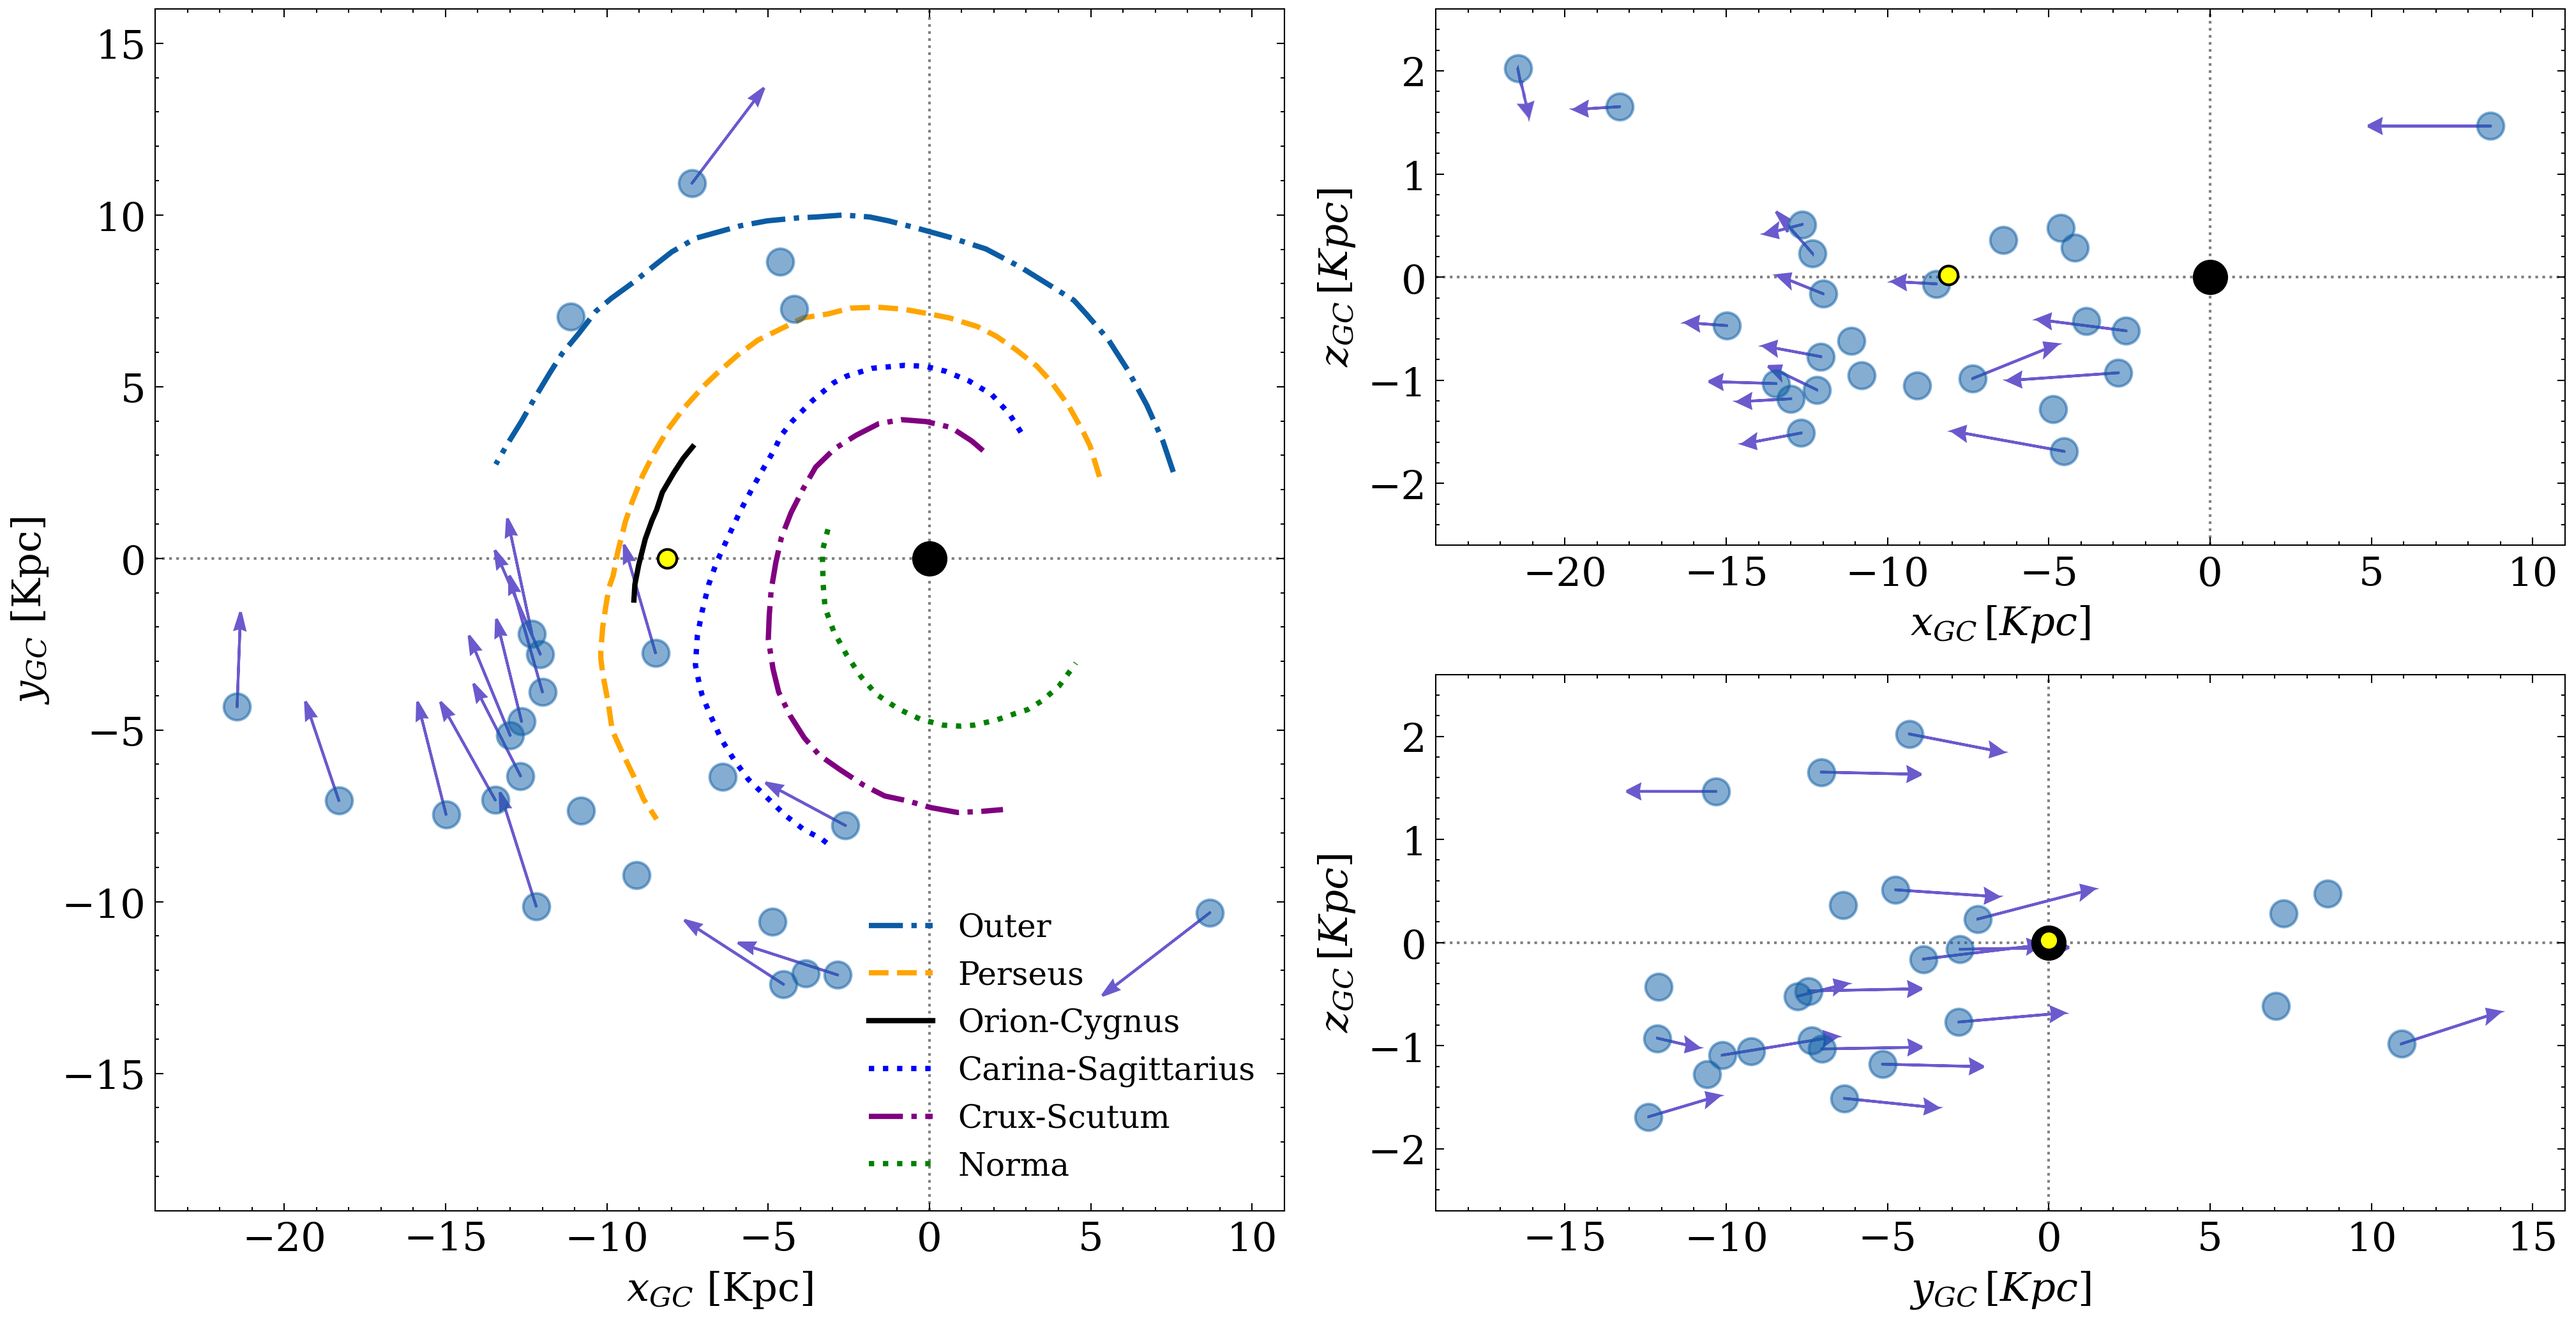
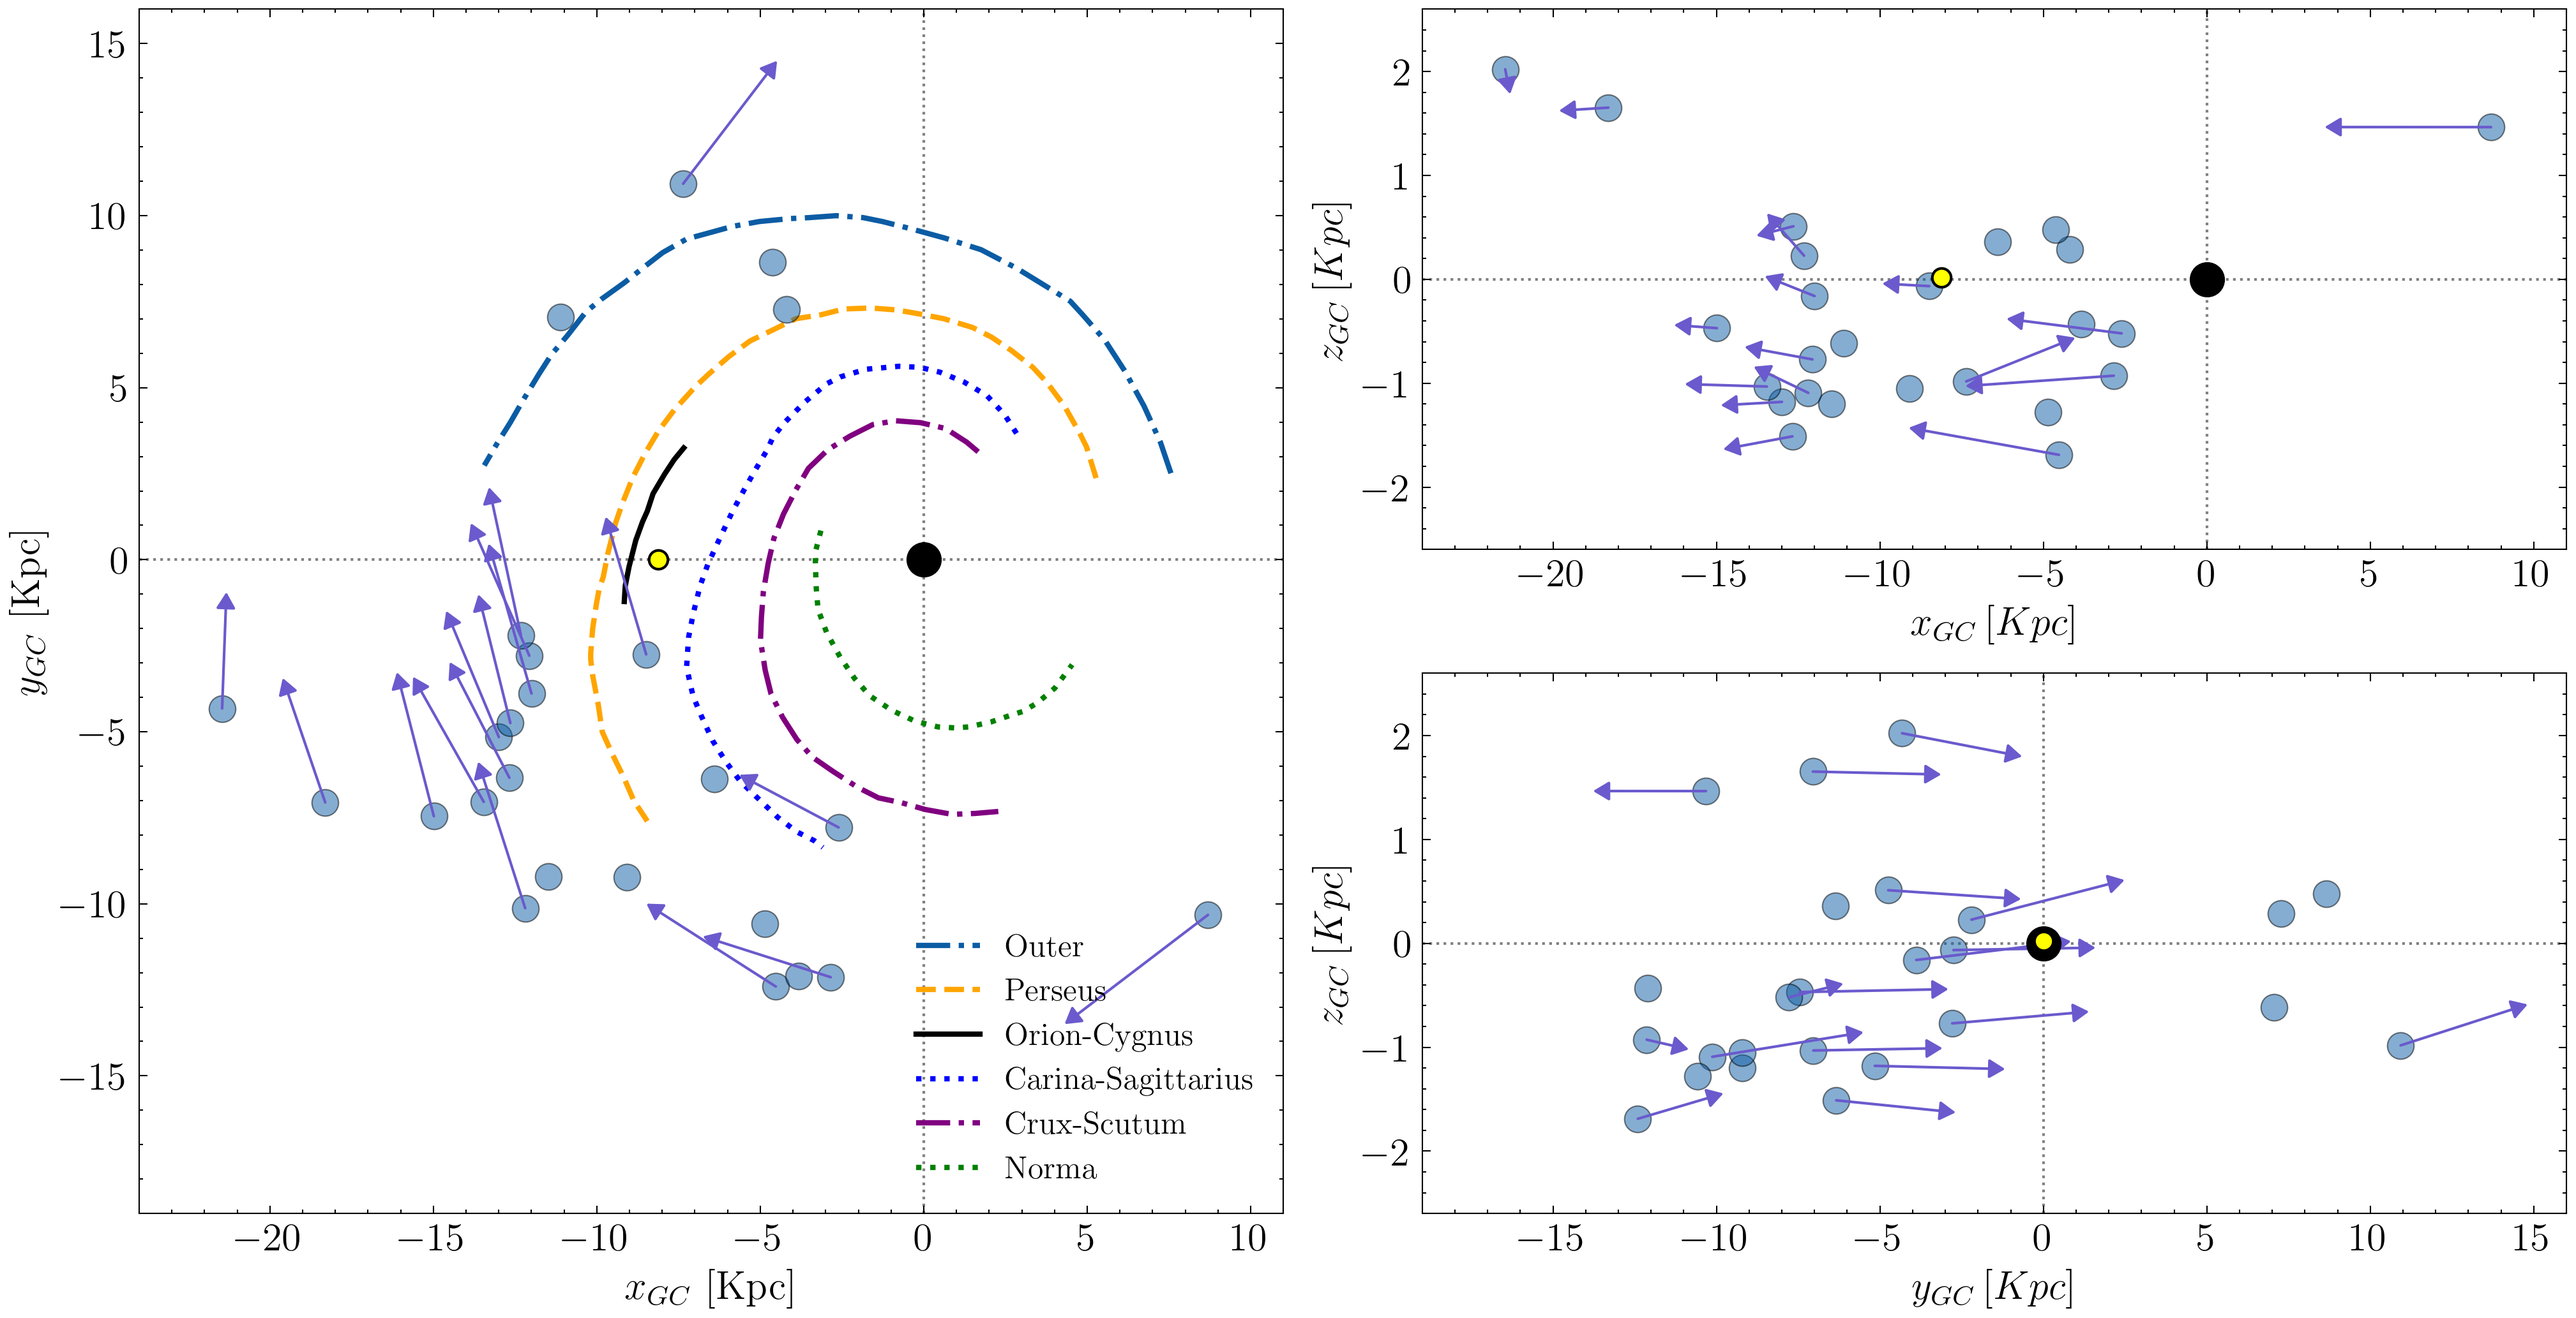
code to plot veloc vectors on spiral galaxy + updt plot

diff --git a/1_code/plot_XYmap_vector.py b/1_code/plot_XYmap_vector.py
@@ -1,0 +1,217 @@
+from astropy import units as u
+from astropy.coordinates import SkyCoord
+import astropy.coordinates as coord
+from astropy.io import ascii
+import matplotlib.pyplot as plt
+import matplotlib.gridspec as gridspec
+import numpy as np
+from plot_pars import dpi, grid_x, grid_y
+from plot_XYmap import plotSpiral
+
+
+lit_data = """
+Cluster      RA  DEC       Dm  A_OC  D_OC  A_CG D_CG  A_WB  D_WB  A_MW  D_MW   RV      pmRA   pmDE      pmRA_CG   pmDE_CG
+Ber73        95.50  -6.35  2   9.18  9800  9.15 6158  9.36  6850  9.15  7881   112.41  0.23434  1.0619  0.227     1.110
+Ber25        100.25 -16.52 5   9.7   11400 9.39 6780  9.6   11300 9.7   11400  108.07  -0.1264  0.8662  -0.114    0.845
+Ber75        102.25 -24.00 4   9.6   9100  9.23 8304  9.48  9800  9.3   6273   122.41  -0.2216  1.1369  -0.264    1.088
+Ber26        102.58 5.75   4   9.6   12589 nan   nan  9.6   4300  8.71  2724   68.00   0.1589   0.3849   nan      nan
+Ber29        103.27 16.93  6   9.025 14871 9.49 12604 9.025 14871 9.1   10797  25.72   0.1491   -1.0549  0.151    -1.010
+Tombaugh2    105.77 -20.82 3   9.01  6080  9.21 9316  9.01  13260 9.01  6565   122.47  -0.4871  1.3870   -0.464   1.349
+Ber76        106.67 -11.73 5   9.18  12600 9.22 4746  9.18  12600 8.87  2360   73.02   -0.5982  1.4057   -0.580   1.400
+FSR1212      106.94 -14.15 nan nan   nan   9.14 9682  nan   nan   8.65  1780   71.82   -0.3401  0.522   -0.246   0.314
+Saurer1      110.23 1.81   4   9.7   13200 nan   nan  9.85  13200 9.6   13719  98.00   -0.2881  -0.2546  nan      nan
+Czernik30    112.83 -9.97  3   9.4   9120  9.46 6647  9.4   6200  9.2   6812   82.07   -0.6182  -0.0701  -0.587   -0.097
+arpm2        114.69 -33.84 2   9.335 13341 9.48 11751 9.335 13341 9.335 13338  58.25   -0.4895  1.2485   -0.513   1.225
+vdBH4        114.43 -36.07 2   nan   nan   nan  nan   8.3   19300 nan   nan    0.00    -0.8201  2.1237   nan      nan
+FSR1419      124.71 -47.79 nan nan   nan   9.21 11165 nan   nan   8.375 7746   0.00    -2.4768  2.8472   -2.529   2.860
+vdBH37       128.95 -43.62 3   8.84  11220 8.24 4038  8.85  2500  7.5   5202   51.90   -3.5002  3.9929   -3.484   3.953
+ESO09205     150.81 -64.75 5   9.3   5168  9.65 12444 9.78  10900 9.3   5168   57.40   -3.0043  2.4768   -2.919   2.397
+ESO09218     153.74 -64.61 5   9.024 10607 9.46 9910  9.024 607   9.15  9548   0.00    -3.5909  2.7215   -3.551   2.761
+Saurer3      160.35 -55.31 4   9.3   9550  nan   nan  9.45  8830  9.3   7075   0.00    -6.6955  3.2950   nan      nan
+Kronberger39 163.56 -61.74 .8  nan   11100 nan   nan  nan   nan   6.    4372   0.00    -4.4255  1.8950   nan      nan
+ESO09308     169.92 -65.22 1   9.74  14000 nan   nan  9.65  3700   9.8  13797  86.00   -4.0370  1.3845   nan      nan
+vdBH144      198.78 -65.92 1.5 8.9   12000 9.17 9649  8.9   12000  9    7241   40.00   -5.1392  -0.4709  -5.11    -0.375
+vdBH176      234.85 -50.05 3   nan   nan   nan   nan  nan   13400  9.8  18887  11.20   -3.9673  -3.0758  nan      nan
+Kronberger31 295.05 26.26  1.3 nan   11900 nan   nan  nan   nan    8.5  12617  0.00    -2.3605  -4.6224  nan      nan
+Saurer6      297.76 32.24  1.8 9.29  9330  nan   nan  9.29  9330   9.2  7329   0.00    -2.6032  -4.1481  nan      nan
+Ber56        319.43 41.83  3   9.6   12100 9.47 9516  9.6   12100  9.4  13180  -54.95  -1.9199  -1.8125  -1.901  -1.831
+Ber102       354.66 56.64  5   9.5   9638  9.59 10519 8.78  2600   9.14 4900   0.00    -1.556  -0.3574   -1.559  -0.340
+"""
+lit_data = ascii.read(lit_data)
+
+out_folder = '../2_pipeline/plots/'
+
+
+def main(dpi=dpi):
+    """
+    """
+
+    # Use this block to plot the ASteCA results instead ASteCA output data
+    asteca_data = ascii.read('../2_pipeline/5_ASteCA/out/asteca_output.dat')
+    asteca_names = list([_[3:].upper() for _ in asteca_data['NAME']])
+    asteca_dists = []
+    # d_84, d_16 = [], []
+    for cl in lit_data['Cluster']:
+        try:
+            idx = asteca_names.index(cl.upper())
+            d_pc = 10**(.2 * (asteca_data[idx]['d_median'] + 5))
+            # dis_84 = 10**(.2 * (asteca_data[idx]['d_84th'] + 5))/1000
+            # dis_16 = 10**(.2 * (asteca_data[idx]['d_16th'] + 5))/1000
+        except ValueError:
+            d_pc = np.nan
+        asteca_dists.append(round(d_pc, 2))
+        # d_16.append(round(dis_16, 2))
+        # d_84.append(round(dis_84, 2))
+    asteca_dists = np.array(asteca_dists)
+
+    plot(lit_data, asteca_dists)
+
+
+def plot(lit_data, asteca_dists):
+    """
+    Gridspec idea: http://www.sc.eso.org/~bdias/pycoffee/codes/20160407/
+                   gridspec_demo.html
+    """
+    # Default Galactic Center is 8.3 kpc (Gillessen et al. 2009)
+    gc_frame = coord.Galactocentric()
+
+    # Obtain latitude, longitude
+    eq = SkyCoord(
+        ra=lit_data['RA'] * u.degree, dec=lit_data['DEC'] * u.degree,
+        frame='icrs')
+    lb = eq.transform_to('galactic')
+    lon = lb.l.wrap_at(180 * u.deg).radian * u.radian
+    lat = lb.b.radian * u.radian
+
+    xyz_kpc = xyzCoords(lit_data, asteca_dists, lon, lat, gc_frame)
+    x_kpc, y_kpc, z_kpc, vx, vy, vz = xyz_kpc
+
+    # Sun's coords according to the Galactocentric frame.
+    x_sun, z_sun = gc_frame.galcen_distance, gc_frame.z_sun
+    s_xys = SkyCoord(
+        -x_sun, 0., z_sun, unit='kpc', representation_type='cartesian')
+
+    Xmin, Xmax, Ymin, Ymax, Zmin, Zmax = -24, 11, -19, 16, -2.6, 2.6
+
+    fig = plt.figure(figsize=(17, 17))
+    gs = gridspec.GridSpec(grid_y, grid_x)
+
+    plt.subplot(gs[0:4, 0:4])
+    plt.axhline(0, ls=':', c='grey', zorder=-1)
+    plt.axvline(0, ls=':', c='grey', zorder=-1)
+
+    plt.scatter(
+        x_kpc, y_kpc, alpha=.5, s=100, lw=.5, edgecolor='k', zorder=2.5)
+    plotVectors(lit_data, x_kpc, y_kpc, vx, vy)
+
+    # Plot Sun and center of Milky Way
+    plt.scatter(s_xys.x, s_xys.y, c='yellow', s=50, edgecolor='k', zorder=2.5)
+    plt.scatter(0., 0., c='k', marker='o', s=150, zorder=2.5)
+    # Plot spiral arms
+    cl_plots = plotSpiral()
+
+    plt.legend(cl_plots[0], cl_plots[1], loc=4, fontsize=12)
+    plt.xlim(Xmin, Xmax)
+    plt.ylim(Ymin, Ymax)
+    plt.xlabel(r"$x_{GC}$ [Kpc]", fontsize=15)
+    plt.ylabel(r"$y_{GC}$ [Kpc]", fontsize=15)
+    plt.xticks(fontsize=15)
+    plt.yticks(fontsize=15)
+
+    #
+    # X_GC vs Z_GC
+    plt.subplot(gs[0:2, 4:8])
+    plt.scatter(
+        x_kpc, z_kpc, alpha=.5, s=100, lw=.5, edgecolor='k', zorder=2.5)
+    plt.axvline(0, ls=':', c='grey', zorder=-1)
+    plt.axhline(0, ls=':', c='grey', zorder=-1)
+    plt.scatter(s_xys.x, s_xys.z, c='yellow', s=50, edgecolor='k', zorder=5)
+    plt.scatter(0., 0., c='k', marker='o', s=150, zorder=5)
+    plt.xlabel(r"$x_{GC}\, [Kpc]$", fontsize=15)
+    plt.ylabel(r"$z_{GC}\, [Kpc]$", fontsize=15)
+    plt.xlim(Xmin, Xmax)
+    plt.ylim(Zmin, Zmax)
+    plt.xticks(fontsize=15)
+    plt.yticks(fontsize=15)
+    plotVectors(lit_data, x_kpc, z_kpc, vx, vz)
+
+    #
+    # Y_GC vs Z_GC
+    plt.subplot(gs[2:4, 4:8])
+    plt.scatter(
+        y_kpc, z_kpc, alpha=.5, s=100, lw=.5, edgecolor='k', zorder=2.5)
+    plt.axvline(0, ls=':', c='grey', zorder=-1)
+    plt.axhline(0, ls=':', c='grey', zorder=-1)
+    plt.scatter(0., 0., c='k', marker='o', s=150, zorder=4)
+    plt.scatter(s_xys.y, s_xys.z, c='yellow', s=50, edgecolor='k', zorder=5)
+    plt.xlabel(r"$y_{GC}\, [Kpc]$", fontsize=15)
+    plt.ylabel(r"$z_{GC}\, [Kpc]$", fontsize=15)
+    plt.xlim(Ymin, Ymax)
+    plt.ylim(Zmin, Zmax)
+    plt.xticks(fontsize=15)
+    plt.yticks(fontsize=15)
+    plotVectors(lit_data, y_kpc, z_kpc, vy, vz)
+
+    fig.tight_layout()
+    fig.savefig(out_folder + 'MWmap_AS.png', dpi=dpi, bbox_inches='tight')
+
+    # R_GC = np.sqrt(x_kpc**2 + y_kpc**2 + z_kpc**2)
+    # ascii.write([
+    #     lit_data['Cluster'], lit_data['D_AS'], d_16, d_84, R_GC, x_kpc,
+    #     y_kpc, z_kpc, lit_data['pmRA'], lit_data['pmDE'], lit_data['RV']],
+    #     'table_CL.dat', names=[
+    #         'Cl', 'Dist', 'd_16', 'd_84', 'R_GC', 'X', 'Y', 'Z', 'pmRA',
+    #         'pmDE', 'RV'], overwrite=True)
+
+
+def plotVectors(lit_data, x, y, vx, vy):
+    """
+    """
+    vxy = np.sqrt(vx**2 + vy**2)
+    xyf = x + vx / (vxy.max()) * 6
+    yxf = y + vy / (vxy.max()) * 6
+    for i, xi in enumerate(x):
+        if lit_data['RV'][i] != 0.00:
+            # plt.arrow(
+            #     x=xi, y=y[i], dx=xyf[i] - xi,
+            #     dy=yxf[i] - y[i], color='slateblue', overhang=10,
+            #     width=wd, head_width=hw, head_length=hl)
+            #
+            # The above made the arrow heads look weird
+            # Source: https://stackoverflow.com/a/52613154/1391441
+            txt = "-|>,head_width={},head_length={}".format(0.3, 0.5)
+            prop = dict(
+                arrowstyle=txt, color='slateblue', shrinkA=0, shrinkB=0)
+            plt.annotate(
+                "", xy=(xyf[i], yxf[i]), xytext=(xi, y[i]), arrowprops=prop)
+
+
+def xyzCoords(data, dist_pc, lon, lat, gc_frame):
+    """
+    """
+    # Galactic coordinates.
+    coords = coord.SkyCoord(
+        ra=data['RA'] * u.degree, dec=data['DEC'] * u.degree,
+        distance=dist_pc * u.pc,
+        pm_ra_cosdec=data['pmRA'] * u.mas / u.yr,
+        pm_dec=data['pmDE'] * u.mas / u.yr,
+        radial_velocity=data['RV'] * u.km / u.s, frame='icrs')
+
+    # Galactocentric coordinates.
+    c_glct = coords.transform_to(gc_frame)
+
+    # Rectangular coordinates
+    x_kpc, y_kpc, z_kpc = np.array(c_glct.x.to(u.kpc)), np.array(
+        c_glct.y.to(u.kpc)), np.array(c_glct.z.to(u.kpc))
+
+    # Velocities
+    vx, vy, vz = np.array(c_glct.v_x), np.array(c_glct.v_y), np.array(
+        c_glct.v_z)
+
+    return x_kpc, y_kpc, z_kpc, vx, vy, vz
+
+
+if __name__ == '__main__':
+    # plt.style.use(['science', 'no-latex'])
+    plt.style.use('science')
+    main()

diff --git a/1_code/plot_XYmap.py b/1_code/plot_XYmap.py
@@ -102,7 +102,6 @@ def main(dpi=dpi):
     s_xys = SkyCoord(
         -x_sun, 0., z_sun, unit='kpc', representation_type='cartesian')
 
-    cl_plots1, cl_plots2 = [[], []], [[], []]
     # colors = plt.rcParams['axes.prop_cycle'].by_key()['color']
     colors = sns.color_palette("Spectral", 13)[2::3]
     # colors = sns.color_palette("Set2")
@@ -120,6 +119,7 @@ def main(dpi=dpi):
     plt.axhline(0, ls=':', c='grey', zorder=-1)
     plt.axvline(0, ls=':', c='grey', zorder=-1)
 
+    cl_plots1 = [[], []]
     for ic, cat in enumerate(DBs_list):
         x_kpc, y_kpc, z_kpc = xyz_kpc[cat]
         pl = plt.scatter(
@@ -127,27 +127,12 @@ def main(dpi=dpi):
             lw=sc_lw, edgecolor=sc_ec, zorder=2.5, color=colors[ic])
         cl_plots1[0].append(pl)
         cl_plots1[1].append(cat.replace('D_', ''))
+
     # Plot Sun and center of Milky Way
     plt.scatter(s_xys.x, s_xys.y, c='yellow', s=50, edgecolor='k', zorder=2.5)
     plt.scatter(0., 0., c='k', marker='o', s=150, zorder=2.5)
     # Plot spiral arms
-    spiral_arms = momany()
-    for sp_name, vals in spiral_arms.items():
-        xy_arm = np.array(list(zip(*vals)))
-        if sp_name == 'Outer':
-            pl, = plt.plot(xy_arm[0], xy_arm[1], c="#0B5CA4", ls='-.', lw=2)
-        if sp_name == 'Perseus':
-            pl, = plt.plot(xy_arm[0], xy_arm[1], c='orange', ls='--', lw=2)
-        if sp_name == 'Orion-Cygnus':
-            pl, = plt.plot(xy_arm[0], xy_arm[1], c='k', ls="-", lw=2)
-        elif sp_name == 'Carina-Sagittarius':
-            pl, = plt.plot(xy_arm[0], xy_arm[1], c='b', ls=':', lw=2)
-        elif sp_name == 'Crux-Scutum':
-            pl, = plt.plot(xy_arm[0], xy_arm[1], c='purple', ls='-.', lw=2)
-        elif sp_name == 'Norma':
-            pl, = plt.plot(xy_arm[0], xy_arm[1], c='green', ls=':', lw=2)
-        cl_plots2[0].append(pl)
-        cl_plots2[1].append(sp_name)
+    cl_plots2 = plotSpiral()
 
     l1 = plt.legend(cl_plots1[0], cl_plots1[1], loc=1, fontsize=12)
     plt.legend(cl_plots2[0], cl_plots2[1], loc=4, fontsize=12)
@@ -222,6 +207,32 @@ def xyzCoords(data, cat, lon, lat, gc_frame):
     x_kpc, y_kpc, z_kpc = c_glct.x, c_glct.y, c_glct.z
 
     return x_kpc, y_kpc, z_kpc
+
+
+def plotSpiral():
+    """
+    """
+    spiral_arms = momany()
+
+    cl_plots = [[], []]
+    for sp_name, vals in spiral_arms.items():
+        xy_arm = np.array(list(zip(*vals)))
+        if sp_name == 'Outer':
+            pl, = plt.plot(xy_arm[0], xy_arm[1], c="#0B5CA4", ls='-.', lw=2)
+        if sp_name == 'Perseus':
+            pl, = plt.plot(xy_arm[0], xy_arm[1], c='orange', ls='--', lw=2)
+        if sp_name == 'Orion-Cygnus':
+            pl, = plt.plot(xy_arm[0], xy_arm[1], c='k', ls="-", lw=2)
+        elif sp_name == 'Carina-Sagittarius':
+            pl, = plt.plot(xy_arm[0], xy_arm[1], c='b', ls=':', lw=2)
+        elif sp_name == 'Crux-Scutum':
+            pl, = plt.plot(xy_arm[0], xy_arm[1], c='purple', ls='-.', lw=2)
+        elif sp_name == 'Norma':
+            pl, = plt.plot(xy_arm[0], xy_arm[1], c='green', ls=':', lw=2)
+        cl_plots[0].append(pl)
+        cl_plots[1].append(sp_name)
+
+    return cl_plots
 
 
 def momany():
